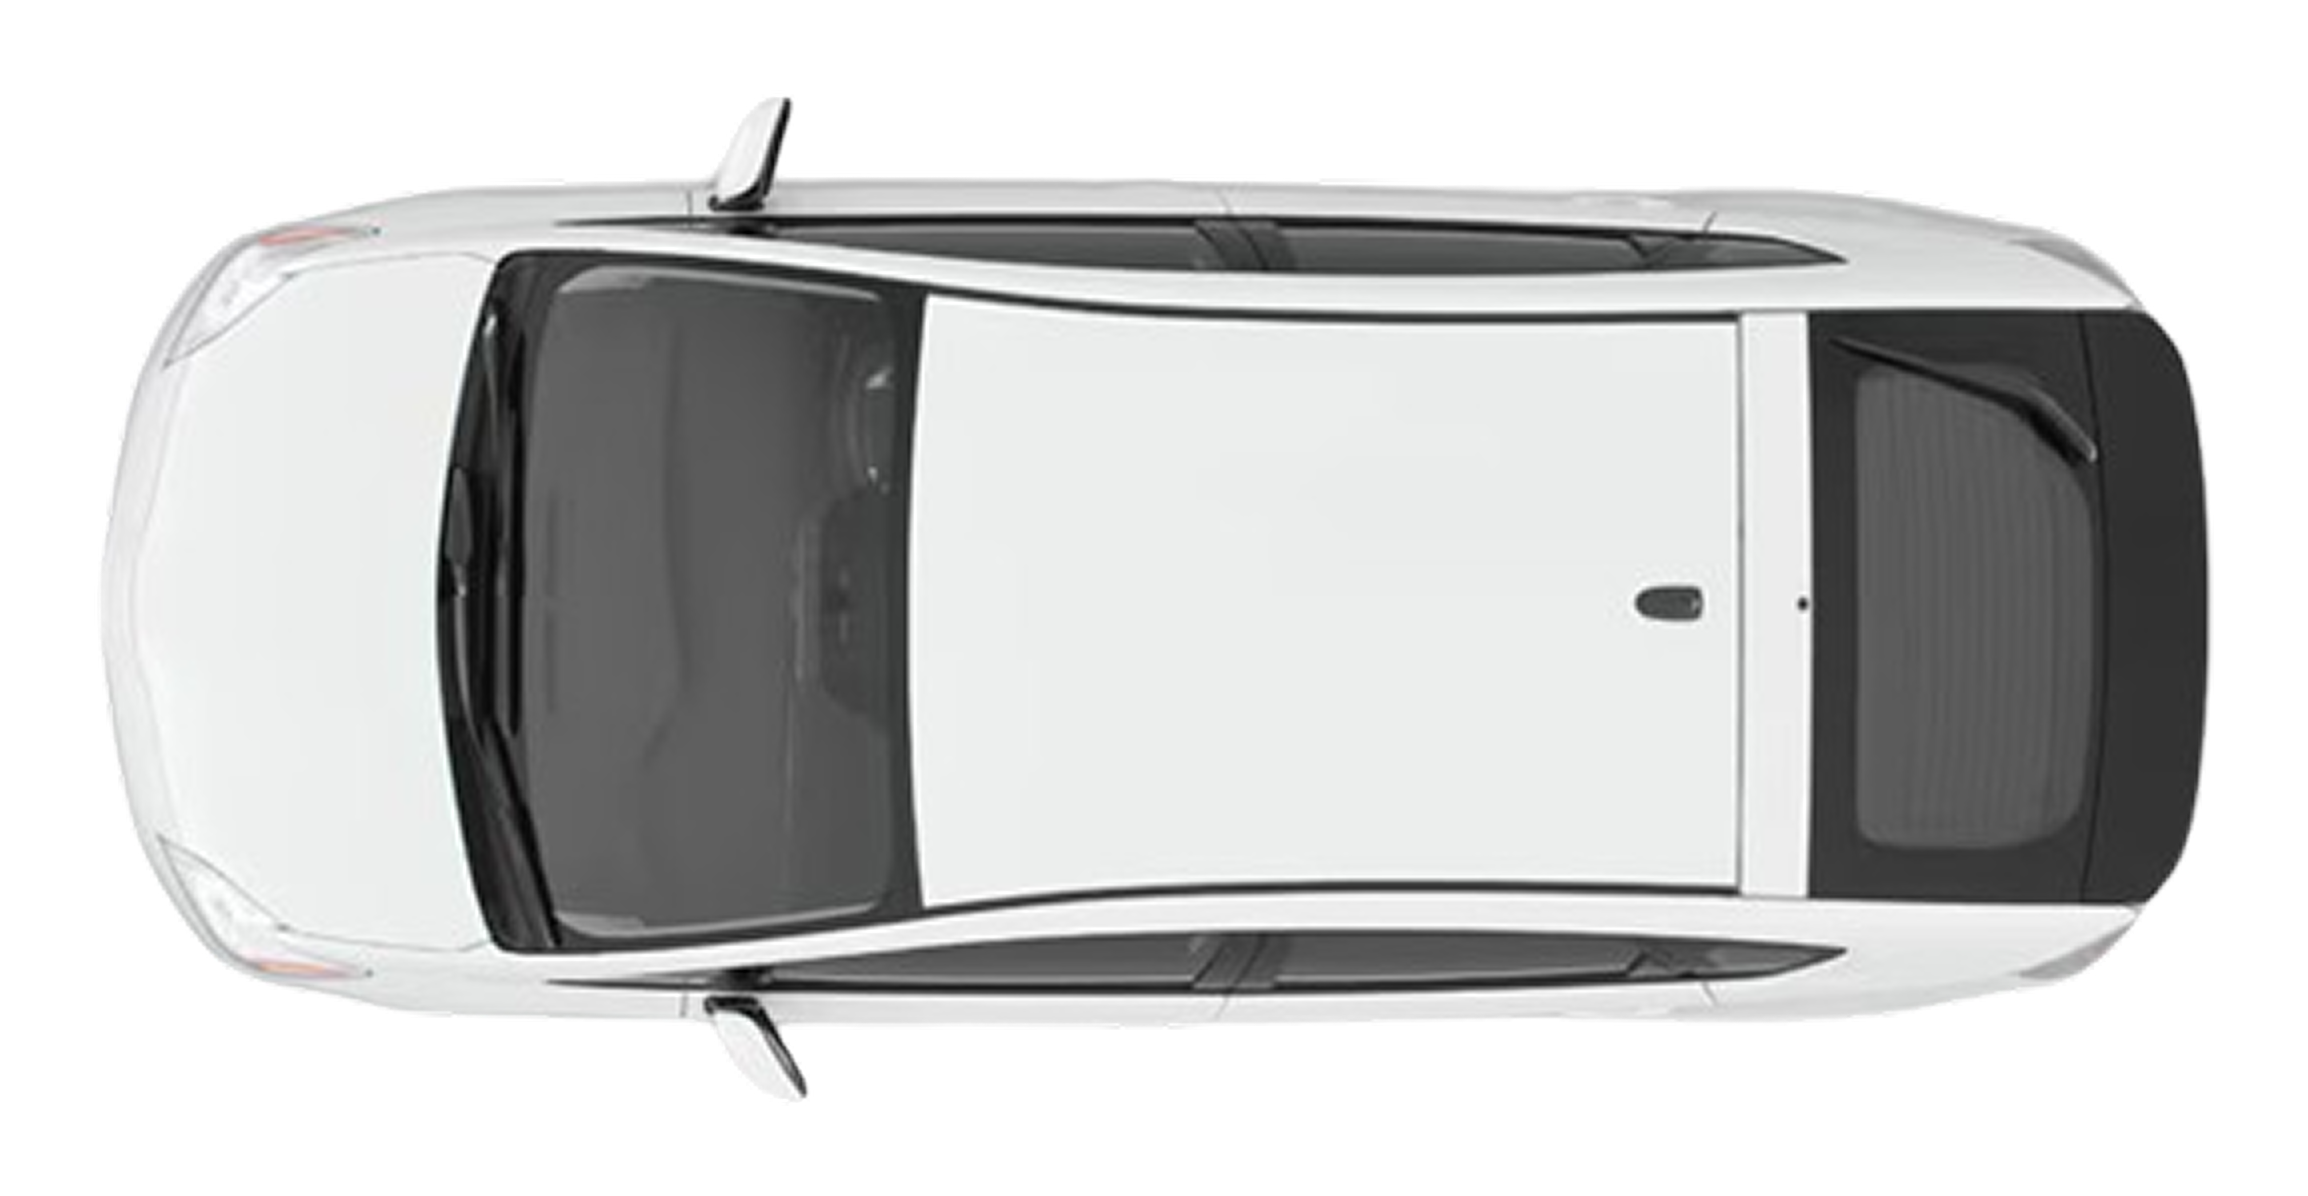
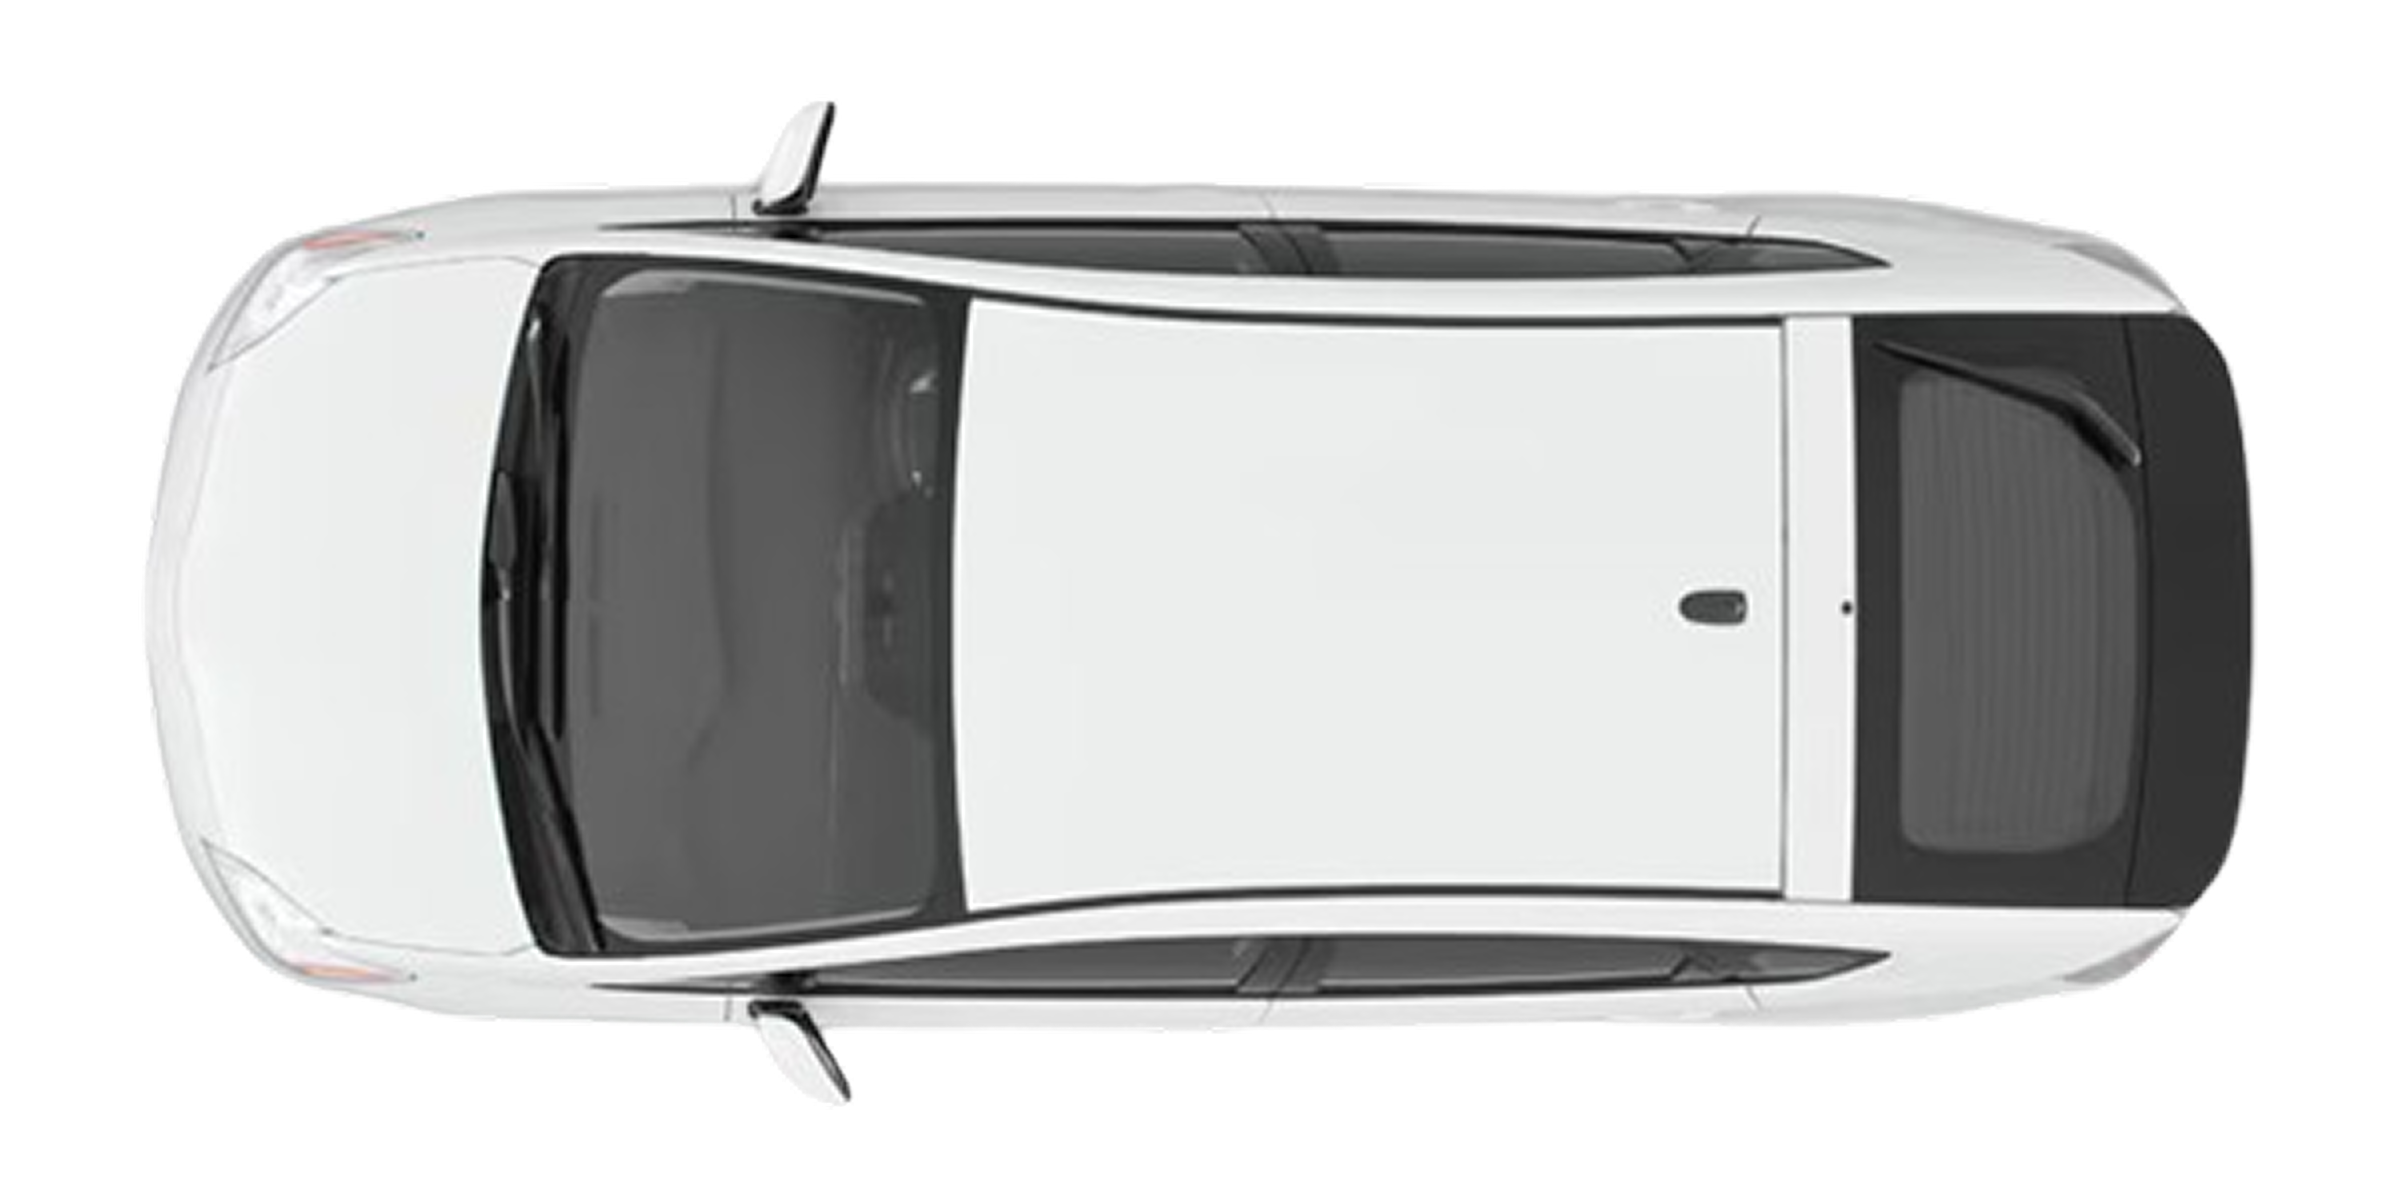
✨ feat: 자동차 탑뷰 이미지 추가 및 매핑

diff --git a/marimo_client/lib/screens/monitoring/MonitoringScreen.dart b/marimo_client/lib/screens/monitoring/MonitoringScreen.dart
@@ -3,7 +3,7 @@ import 'package:provider/provider.dart';
 import 'package:flutter_screenutil/flutter_screenutil.dart';
 import 'package:marimo_client/screens/monitoring/widgets/TireDiagnosisButton.dart';
 import 'package:marimo_client/screens/monitoring/widgets/Obd2InfoList.dart';
-import 'package:marimo_client/providers/obd_polling_provider.dart';
+import 'package:marimo_client/providers/car_provider.dart';
 
 class MonitoringScreen extends StatefulWidget {
   const MonitoringScreen({super.key});
@@ -23,13 +23,62 @@ class _MonitoringScreenState extends State<MonitoringScreen>
   }
 
   @override
-  void initState() {
-    super.initState();
-  }
-
-  @override
   Widget build(BuildContext context) {
+    final carProvider = Provider.of<CarProvider>(context);
+    final car = carProvider.cars.isNotEmpty ? carProvider.cars.first : null;
+
     final upperHeight = 200.h + 16.h + 48.h + 16.h;
+
+    String getTopImageAsset(String brand, String model) {
+      final Map<String, String> kiaModelTopImageMap = {
+        "모닝": "assets/images/cars/morning_top.png",
+        "레이": "assets/images/cars/ray_top.png",
+        "K3": "assets/images/cars/k3_top.png",
+        "K5": "assets/images/cars/k5_top.png",
+        "K7": "assets/images/cars/k7_top.png",
+        "K9": "assets/images/cars/k9_top.png",
+        "셀토스": "assets/images/cars/seltos_top.png",
+        "니로": "assets/images/cars/niro_top.png",
+        "스포티지": "assets/images/cars/sportage_top.png",
+        "쏘렌토": "assets/images/cars/sorento_top.png",
+        "모하비": "assets/images/cars/mohave_top.png",
+      };
+
+      final Map<String, String> hyundaiModelTopImageMap = {
+        "아반떼": "assets/images/cars/avante_top.png",
+        "쏘나타": "assets/images/cars/sonata_top.png",
+        "그랜저": "assets/images/cars/grandeur_top.png",
+        "에쿠스": "assets/images/cars/equus_top.png",
+        "제네시스": "assets/images/cars/genesis_top.png",
+        "베뉴": "assets/images/cars/venue_top.png",
+        "코나": "assets/images/cars/kona_top.png",
+        "투싼": "assets/images/cars/tucson_top.png",
+        "산타페": "assets/images/cars/santafe_top.png",
+        "팰리세이드": "assets/images/cars/palisade_top.png",
+      };
+
+      final Map<String, String> toyotaModelTopImageMap = {
+        "프리우스": "assets/images/cars/prius_top.png",
+      };
+
+      const fallback = "assets/images/cars/sonata_top.png";
+
+      switch (brand.toLowerCase()) {
+        case "kia":
+          return kiaModelTopImageMap[model] ?? fallback;
+        case "hyundai":
+          return hyundaiModelTopImageMap[model] ?? fallback;
+        case "toyota":
+          return toyotaModelTopImageMap[model] ?? fallback;
+        default:
+          return fallback;
+      }
+    }
+
+    final topImage =
+        car != null
+            ? getTopImageAsset(car.brandId ?? '', car.modelName ?? '')
+            : 'assets/images/cars/sonata_top.png';
 
     return Scaffold(
       body: Padding(
@@ -45,10 +94,7 @@ class _MonitoringScreenState extends State<MonitoringScreen>
                   SizedBox(
                     width: double.infinity,
                     height: 200.h,
-                    child: Image.asset(
-                      'assets/images/cars/prius_top.png',
-                      fit: BoxFit.cover,
-                    ),
+                    child: Image.asset(topImage, fit: BoxFit.cover),
                   ),
                   SizedBox(height: 16.h),
                   SizedBox(
